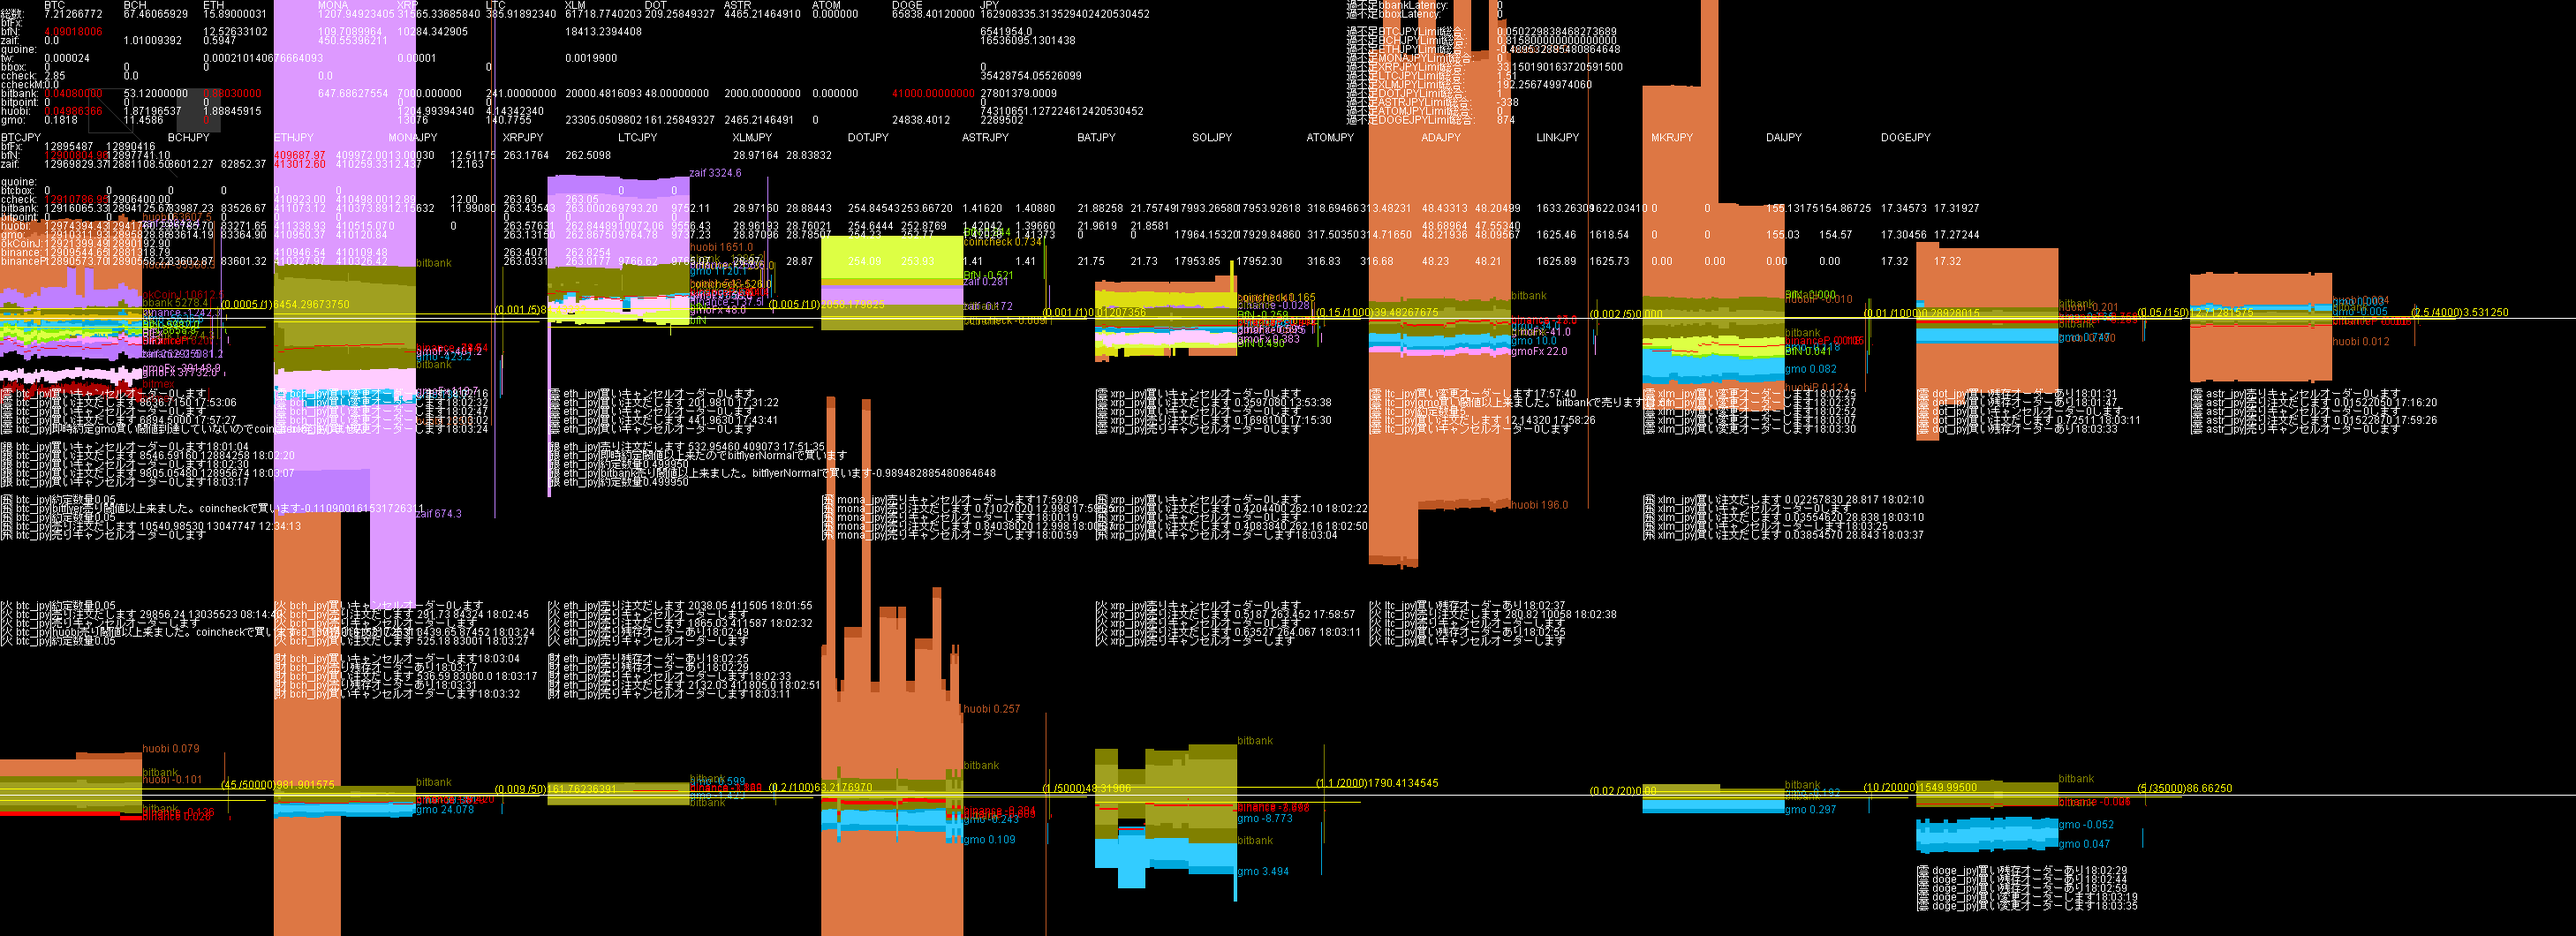
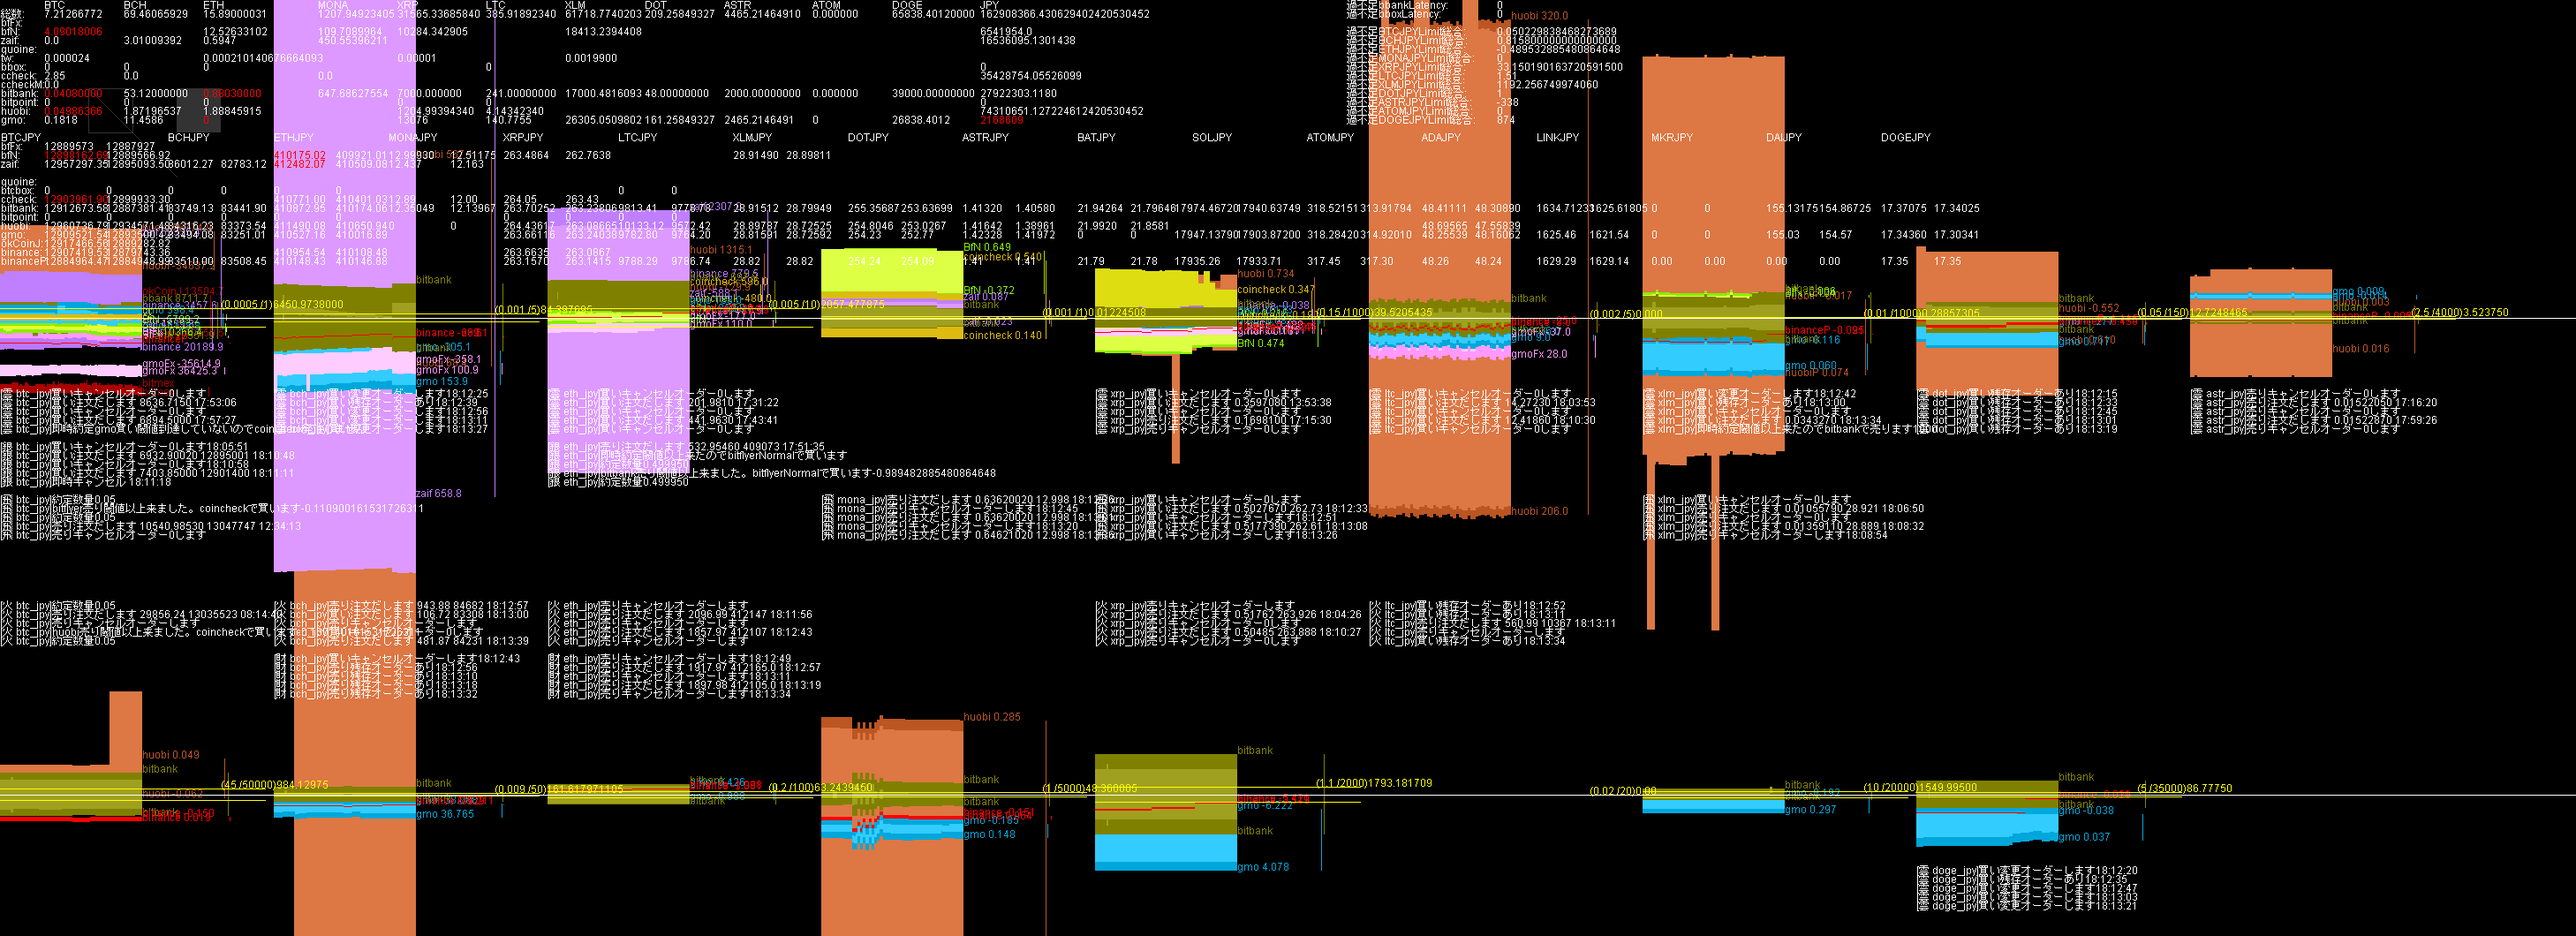
Update HTML file via Java

diff --git a/ca.html b/ca.html
@@ -16,6 +16,9 @@ th { background-color: #222; text-align: center; }
     <tr><th>ddhhmm</th><th>bfJPY</th><th>財JPY</th><th>ccJPY</th><th>銀JPY</th><th>火JPY</th><th>雲JPY</th><th>bfBTC</th><th>財BTC</th><th>ccBTC</th><th>銀BTC</th><th>火BTC</th><th>雲BTC</th><th>bfBCH</th><th>財BCH</th><th>ccBCH</th><th>銀BCH</th><th>火BCH</th><th>雲BCH</th><th>bfETH</th><th>財ETH</th><th>ccETH</th><th>銀ETH</th><th>火ETH</th><th>雲ETH</th><th>bfMONA</th><th>財MONA</th><th>ccMONA</th><th>銀MONA</th><th>火MONA</th><th>雲MONA</th><th>bfXRP</th><th>財XRP</th><th>ccXRP</th><th>銀XRP</th><th>火XRP</th><th>雲XRP</th><th>bfLTC</th><th>財LTC</th><th>ccLTC</th><th>銀LTC</th><th>火LTC</th><th>雲LTC</th><th>bfXLM</th><th>財XLM</th><th>ccXLM</th><th>銀XLM</th><th>火XLM</th><th>雲XLM</th><th>bfDOT</th><th>財DOT</th><th>ccDOT</th><th>銀DOT</th><th>火DOT</th><th>雲DOT</th><th>bfASTR</th><th>財ASTR</th><th>ccASTR</th><th>銀ASTR</th><th>火ASTR</th><th>雲ASTR</th><th>bfDOGE</th><th>財DOGE</th><th>ccDOGE</th><th>銀DOGE</th><th>火DOGE</th><th>雲DOGE</th>    </tr>  </thead>
   <tbody>
     <tr>
+<td>311813</td><td>00654</td><td>01653</td><td>03542</td><td>02792</td><td>07431</td><td>00216</td><td><span style="color: #4169e1">04.09</span></td><td>00.00</td><td>02.85</td><td><span style="color: #ff69b4">00.04</span></td><td><span style="color: #ff69b4">00.05</span></td><td>00.18</td><td>00.00</td><td>03.01</td><td>00.00</td><td>53.12</td><td>01.87</td><td>11.46</td><td>12.53</td><td>00.59</td><td>00.00</td><td><span style="color: #ff69b4">00.88</span></td><td>01.89</td><td><span style="color: #ff69b4">00.00</span></td><td>0109.7</td><td>0450.6</td><td>0000.0</td><td>0647.7</td><td>0000.0</td><td>0000.0</td><td>10284</td><td>00000</td><td>00000</td><td>07000</td><td>01205</td><td>13076</td><td>00.00</td><td>00.00</td><td>00.00</td><td>241.00</td><td>04.14</td><td>140.78</td><td>00.00</td><td>00.00</td><td>00.00</td><td>17000.48</td><td>00.00</td><td>26305.05</td><td>00.00</td><td>00.00</td><td>00.00</td><td>48.00</td><td>00.00</td><td>161.26</td><td>00.00</td><td>00.00</td><td>00.00</td><td>2000.00</td><td>00.00</td><td>2465.21</td><td>00.00</td><td>00.00</td><td>00.00</td><td>39000.00</td><td>00.00</td><td>26838.40</td>
+    </tr>
+    <tr>
 <td>311803</td><td>00654</td><td>01653</td><td>03542</td><td>02780</td><td>07431</td><td>00228</td><td><span style="color: #4169e1">04.09</span></td><td>00.00</td><td>02.85</td><td><span style="color: #ff69b4">00.04</span></td><td><span style="color: #ff69b4">00.05</span></td><td>00.18</td><td>00.00</td><td>01.01</td><td>00.00</td><td>53.12</td><td>01.87</td><td>11.46</td><td>12.53</td><td>00.59</td><td>00.00</td><td><span style="color: #ff69b4">00.88</span></td><td>01.89</td><td><span style="color: #ff69b4">00.00</span></td><td>0109.7</td><td>0450.6</td><td>0000.0</td><td>0647.7</td><td>0000.0</td><td>0000.0</td><td>10284</td><td>00000</td><td>00000</td><td>07000</td><td>01205</td><td>13076</td><td>00.00</td><td>00.00</td><td>00.00</td><td>241.00</td><td>04.14</td><td>140.78</td><td>00.00</td><td>00.00</td><td>00.00</td><td>20000.48</td><td>00.00</td><td>23305.05</td><td>00.00</td><td>00.00</td><td>00.00</td><td>48.00</td><td>00.00</td><td>161.26</td><td>00.00</td><td>00.00</td><td>00.00</td><td>2000.00</td><td>00.00</td><td>2465.21</td><td>00.00</td><td>00.00</td><td>00.00</td><td><span style="color: #4169e1">41000.00</span></td><td>00.00</td><td>24838.40</td>
     </tr>
     <tr>
